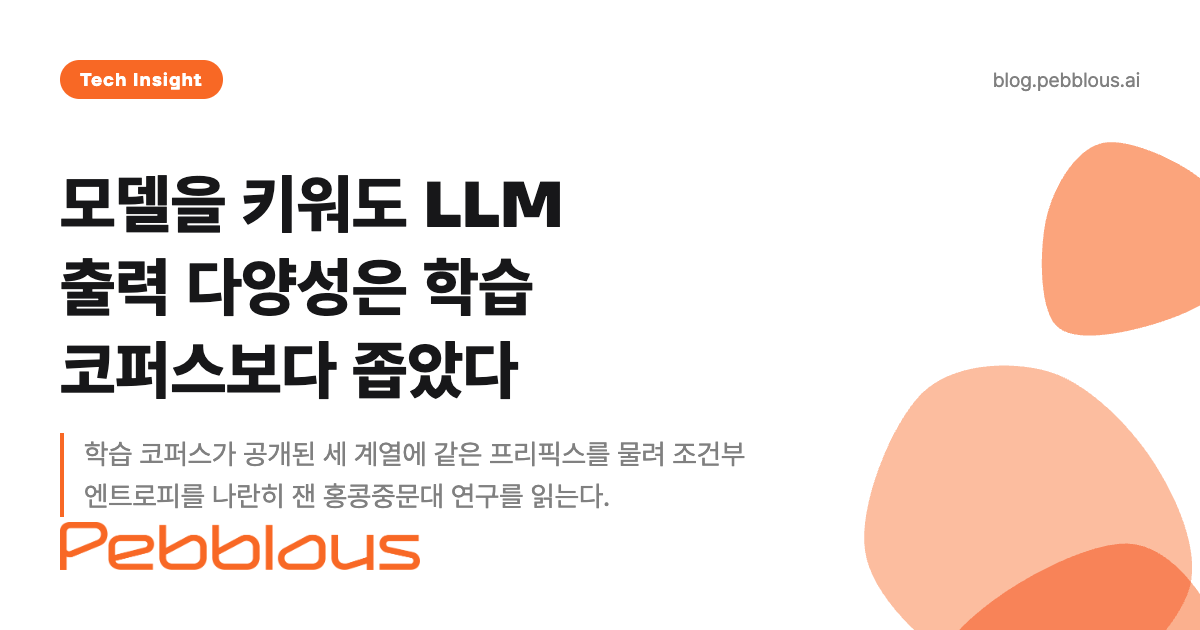
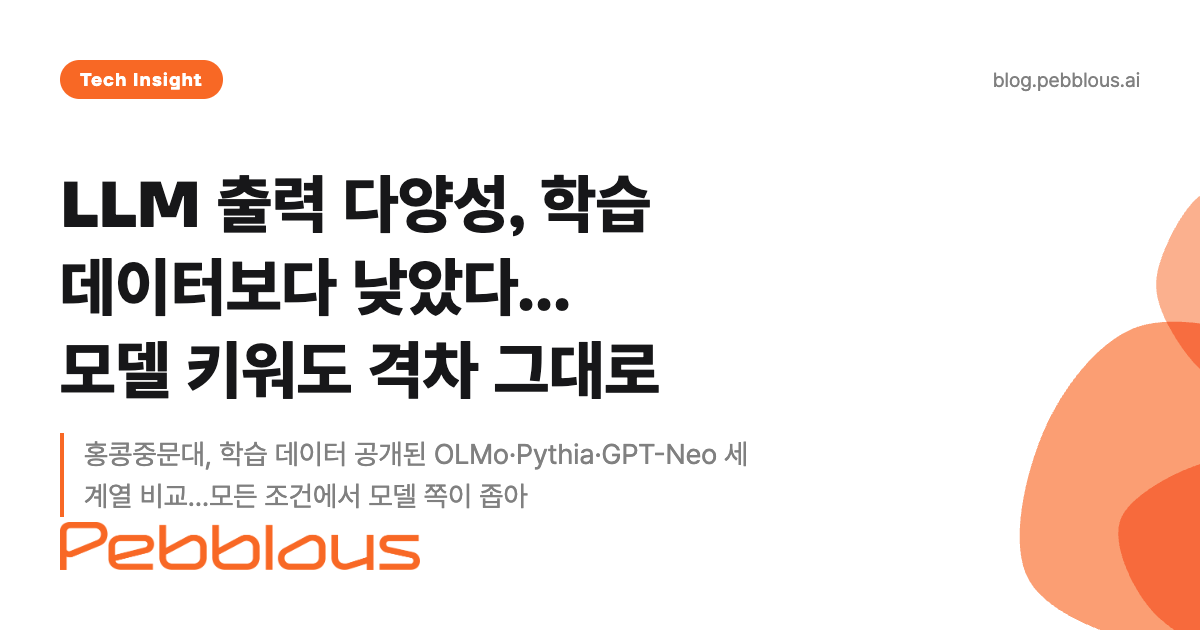
fix(meta): LLM 출력 다양성 리포트 KO 제목·메타 교체
형님이 지정한 문구로 제목 3슬롯과 소셜 메타를 바꿨다. 본문 내용은
건드리지 않았다.

- mainTitle·subtitle·pageTitle·<title>
- meta description, og/twitter title·description·image:alt
- 사이드카(articles.d) title·description — 목록·검색에도 같은 제목이
  가도록. 이걸 빠뜨리면 본문만 새 제목이고 목록엔 옛 제목이 남는다.
- 표지 이미지 재생성 — 제목이 그림에 구워져 있어 옛 문구가 남는다.
  원본과 같은 light 테마로 맞췄다.

⚠ 표지에서 부제 둘째 줄이 페블러스 로고와 겹친다. 이번에 생긴 것이
아니라 이전 표지도 같았다 — 제목 3줄 + 부제 2줄이면 자리가 모자란데
생성기가 그걸 보지 않는다. 같은 문제를 가진 글이 더 있을 것이므로
생성기 쪽에서 따로 다뤄야 한다.

diff --git a/report/llm-training-data-diversity-gap/ko/index.html b/report/llm-training-data-diversity-gap/ko/index.html
@@ -10,8 +10,8 @@
     <meta name="robots" content="index, follow">
     <meta name="revisit-after" content="7 days">
 
-    <title>LLM 출력 다양성 격차 — 조건부 엔트로피로 잰 OLMo·Pythia·GPT-Neo | 페블러스</title>
-    <meta name="description" content="학습 코퍼스가 공개된 OLMo·Pythia·GPT-Neo에 코퍼스와 같은 프리픽스를 물려 조건부 엔트로피를 비교했더니 모델이 이어 쓴 쪽이 좁았다. 그리디 디코딩은 국가 언급의 5분의 1을 한 낱말에 몰았고, 파라미터를 키워도 격차는 거의 줄지 않았다.">
+    <title>LLM 출력 다양성, 학습 데이터보다 낮았다…OLMo·Pythia·GPT-Neo 비교 | 페블러스</title>
+    <meta name="description" content="홍콩중문대 연구진이 학습 데이터가 공개된 OLMo·Pythia·GPT-Neo에 코퍼스와 같은 앞머리를 물려 이어쓰기의 폭을 비교했다. 세 계열, 세 가지 디코딩, 모든 길이에서 모델 쪽이 좁았고, 파라미터를 2.4배 키워도 격차는 거의 움직이지 않았다.">
     <meta name="keywords" content="LLM 다양성, 출력 다양성, 조건부 엔트로피, 조건부 벤디 점수, 폰노이만 엔트로피, OLMo, Pythia, GPT-Neo, Dolma, The Pile, 학습 데이터, 데이터 품질, 합성 데이터, AI-Ready Data, DataClinic">
 
     <link rel="canonical" href="https://blog.pebblous.ai/report/llm-training-data-diversity-gap/ko/">
@@ -29,13 +29,13 @@
 
     <!-- Open Graph -->
     <meta property="og:type" content="article">
-    <meta property="og:title" content="모델을 키워도 LLM 출력 다양성은 학습 코퍼스보다 좁았다">
-    <meta property="og:description" content="학습 코퍼스가 공개된 세 계열에 같은 프리픽스를 물려 조건부 엔트로피를 나란히 잰 홍콩중문대 연구를 읽는다.">
+    <meta property="og:title" content="LLM 출력 다양성, 학습 데이터보다 낮았다…모델 키워도 격차 그대로">
+    <meta property="og:description" content="학습 데이터 공개된 세 모델 계열 비교…모든 조건에서 모델 쪽이 좁았다. 홍콩중문대 프리프린트 분석.">
     <meta property="og:url" content="https://blog.pebblous.ai/report/llm-training-data-diversity-gap/ko/">
     <meta property="og:image" content="https://blog.pebblous.ai/report/llm-training-data-diversity-gap/ko/image/index.png">
     <meta property="og:image:width" content="1200">
     <meta property="og:image:height" content="630">
-    <meta property="og:image:alt" content="학습 코퍼스와 모델 출력의 조건부 다양성 격차">
+    <meta property="og:image:alt" content="학습 데이터와 모델 출력의 다양성 격차">
     <meta property="og:site_name" content="Pebblous Blog">
     <meta property="og:locale" content="ko_KR">
 
@@ -43,10 +43,10 @@
     <meta name="twitter:card" content="summary_large_image">
     <meta name="twitter:site" content="@pebblous_ai">
     <meta name="twitter:creator" content="@pebblous_ai">
-    <meta name="twitter:title" content="모델을 키워도 LLM 출력 다양성은 학습 코퍼스보다 좁았다">
-    <meta name="twitter:description" content="학습 코퍼스가 공개된 세 계열에 같은 프리픽스를 물려 조건부 엔트로피를 나란히 잰 홍콩중문대 연구를 읽는다.">
+    <meta name="twitter:title" content="LLM 출력 다양성, 학습 데이터보다 낮았다…모델 키워도 격차 그대로">
+    <meta name="twitter:description" content="학습 데이터 공개된 세 모델 계열 비교…모든 조건에서 모델 쪽이 좁았다. 홍콩중문대 프리프린트 분석.">
     <meta name="twitter:image" content="https://blog.pebblous.ai/report/llm-training-data-diversity-gap/ko/image/index.png">
-    <meta name="twitter:image:alt" content="학습 코퍼스와 모델 출력의 조건부 다양성 격차">
+    <meta name="twitter:image:alt" content="학습 데이터와 모델 출력의 다양성 격차">
 
     <!-- Favicon -->
     <link rel="icon" href="/image/favicon.ico" sizes="any">
@@ -797,9 +797,9 @@
               },
               "recordedAt": "2026-09-04T03:47:59.319Z"
             },
-            mainTitle: "모델을 키워도 LLM 출력 다양성은 학습 코퍼스보다 좁았다",
-            subtitle: "학습 코퍼스가 공개된 OLMo·Pythia·GPT-Neo를 조건부 엔트로피로 잰 홍콩중문대 연구",
-            pageTitle: "LLM 출력 다양성 격차 — 조건부 엔트로피로 잰 OLMo·Pythia·GPT-Neo | 페블러스",
+            mainTitle: "LLM 출력 다양성, 학습 데이터보다 낮았다…모델 키워도 격차 그대로",
+            subtitle: "홍콩중문대, 학습 데이터 공개된 OLMo·Pythia·GPT-Neo 세 계열 비교…모든 조건에서 모델 쪽이 좁아",
+            pageTitle: "LLM 출력 다양성, 학습 데이터보다 낮았다…OLMo·Pythia·GPT-Neo 비교 | 페블러스",
             category: "tech",
             publishDate: "2026-09-04",
             publisher: "(주)페블러스 데이터 커뮤니케이션팀",
